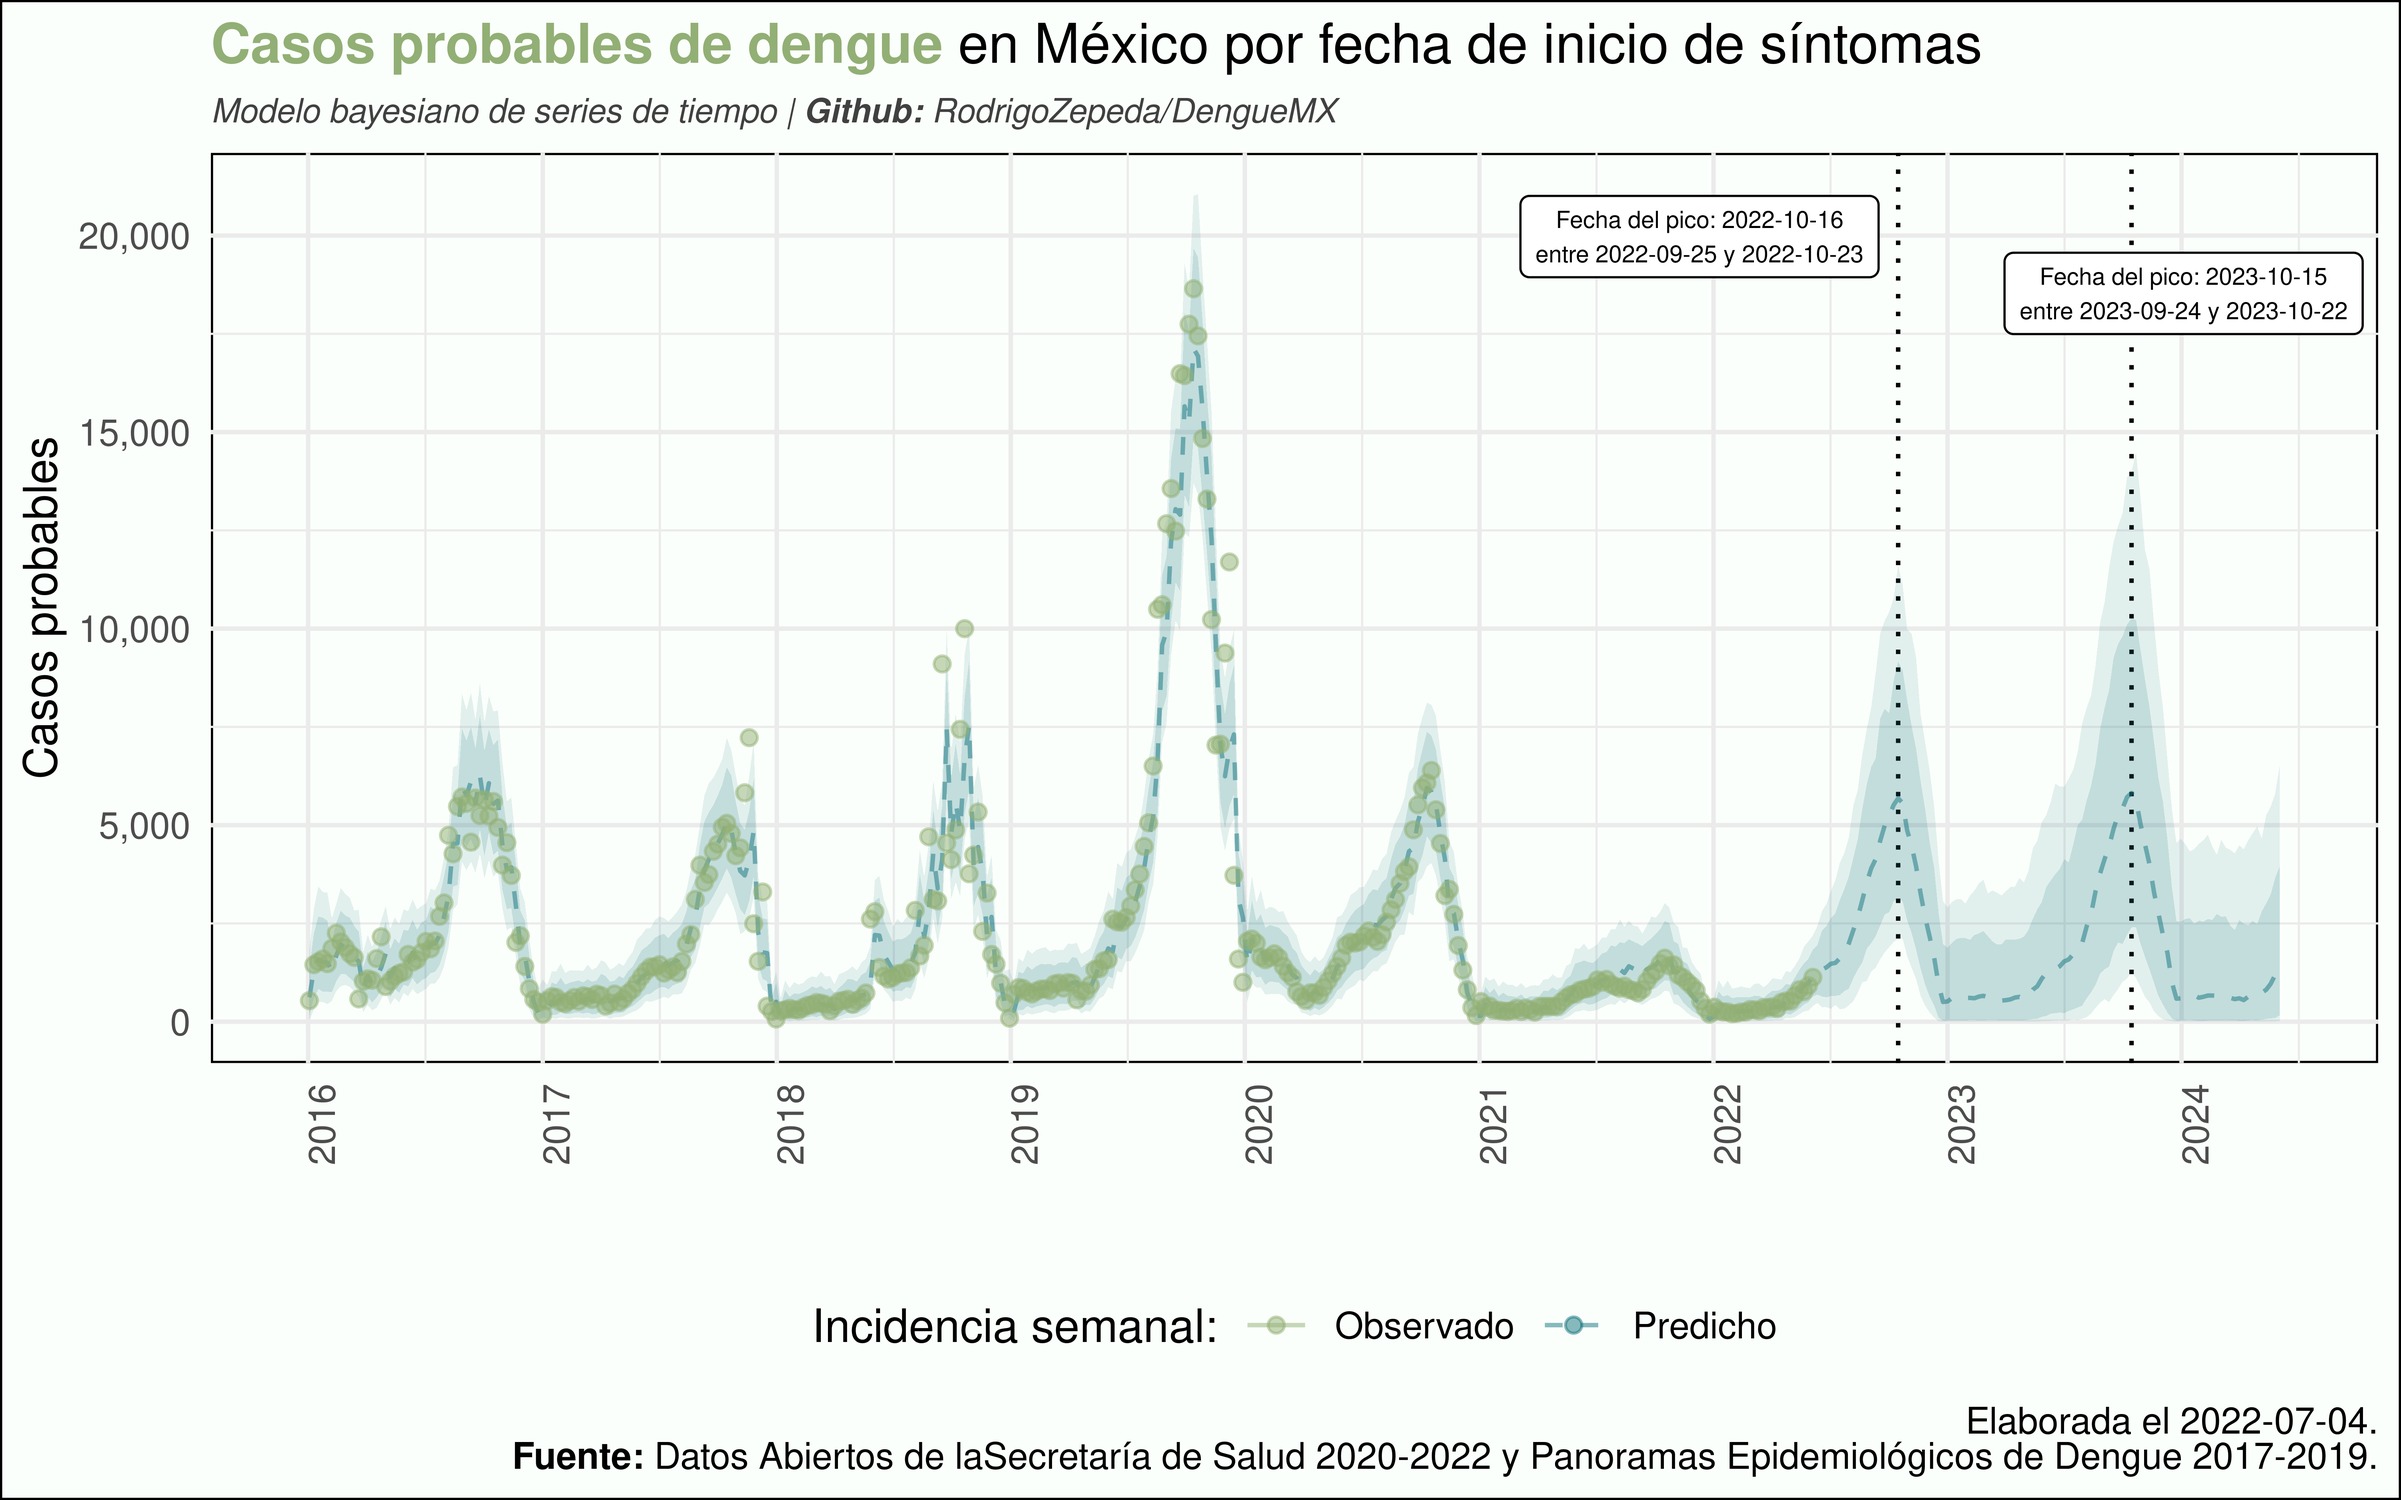
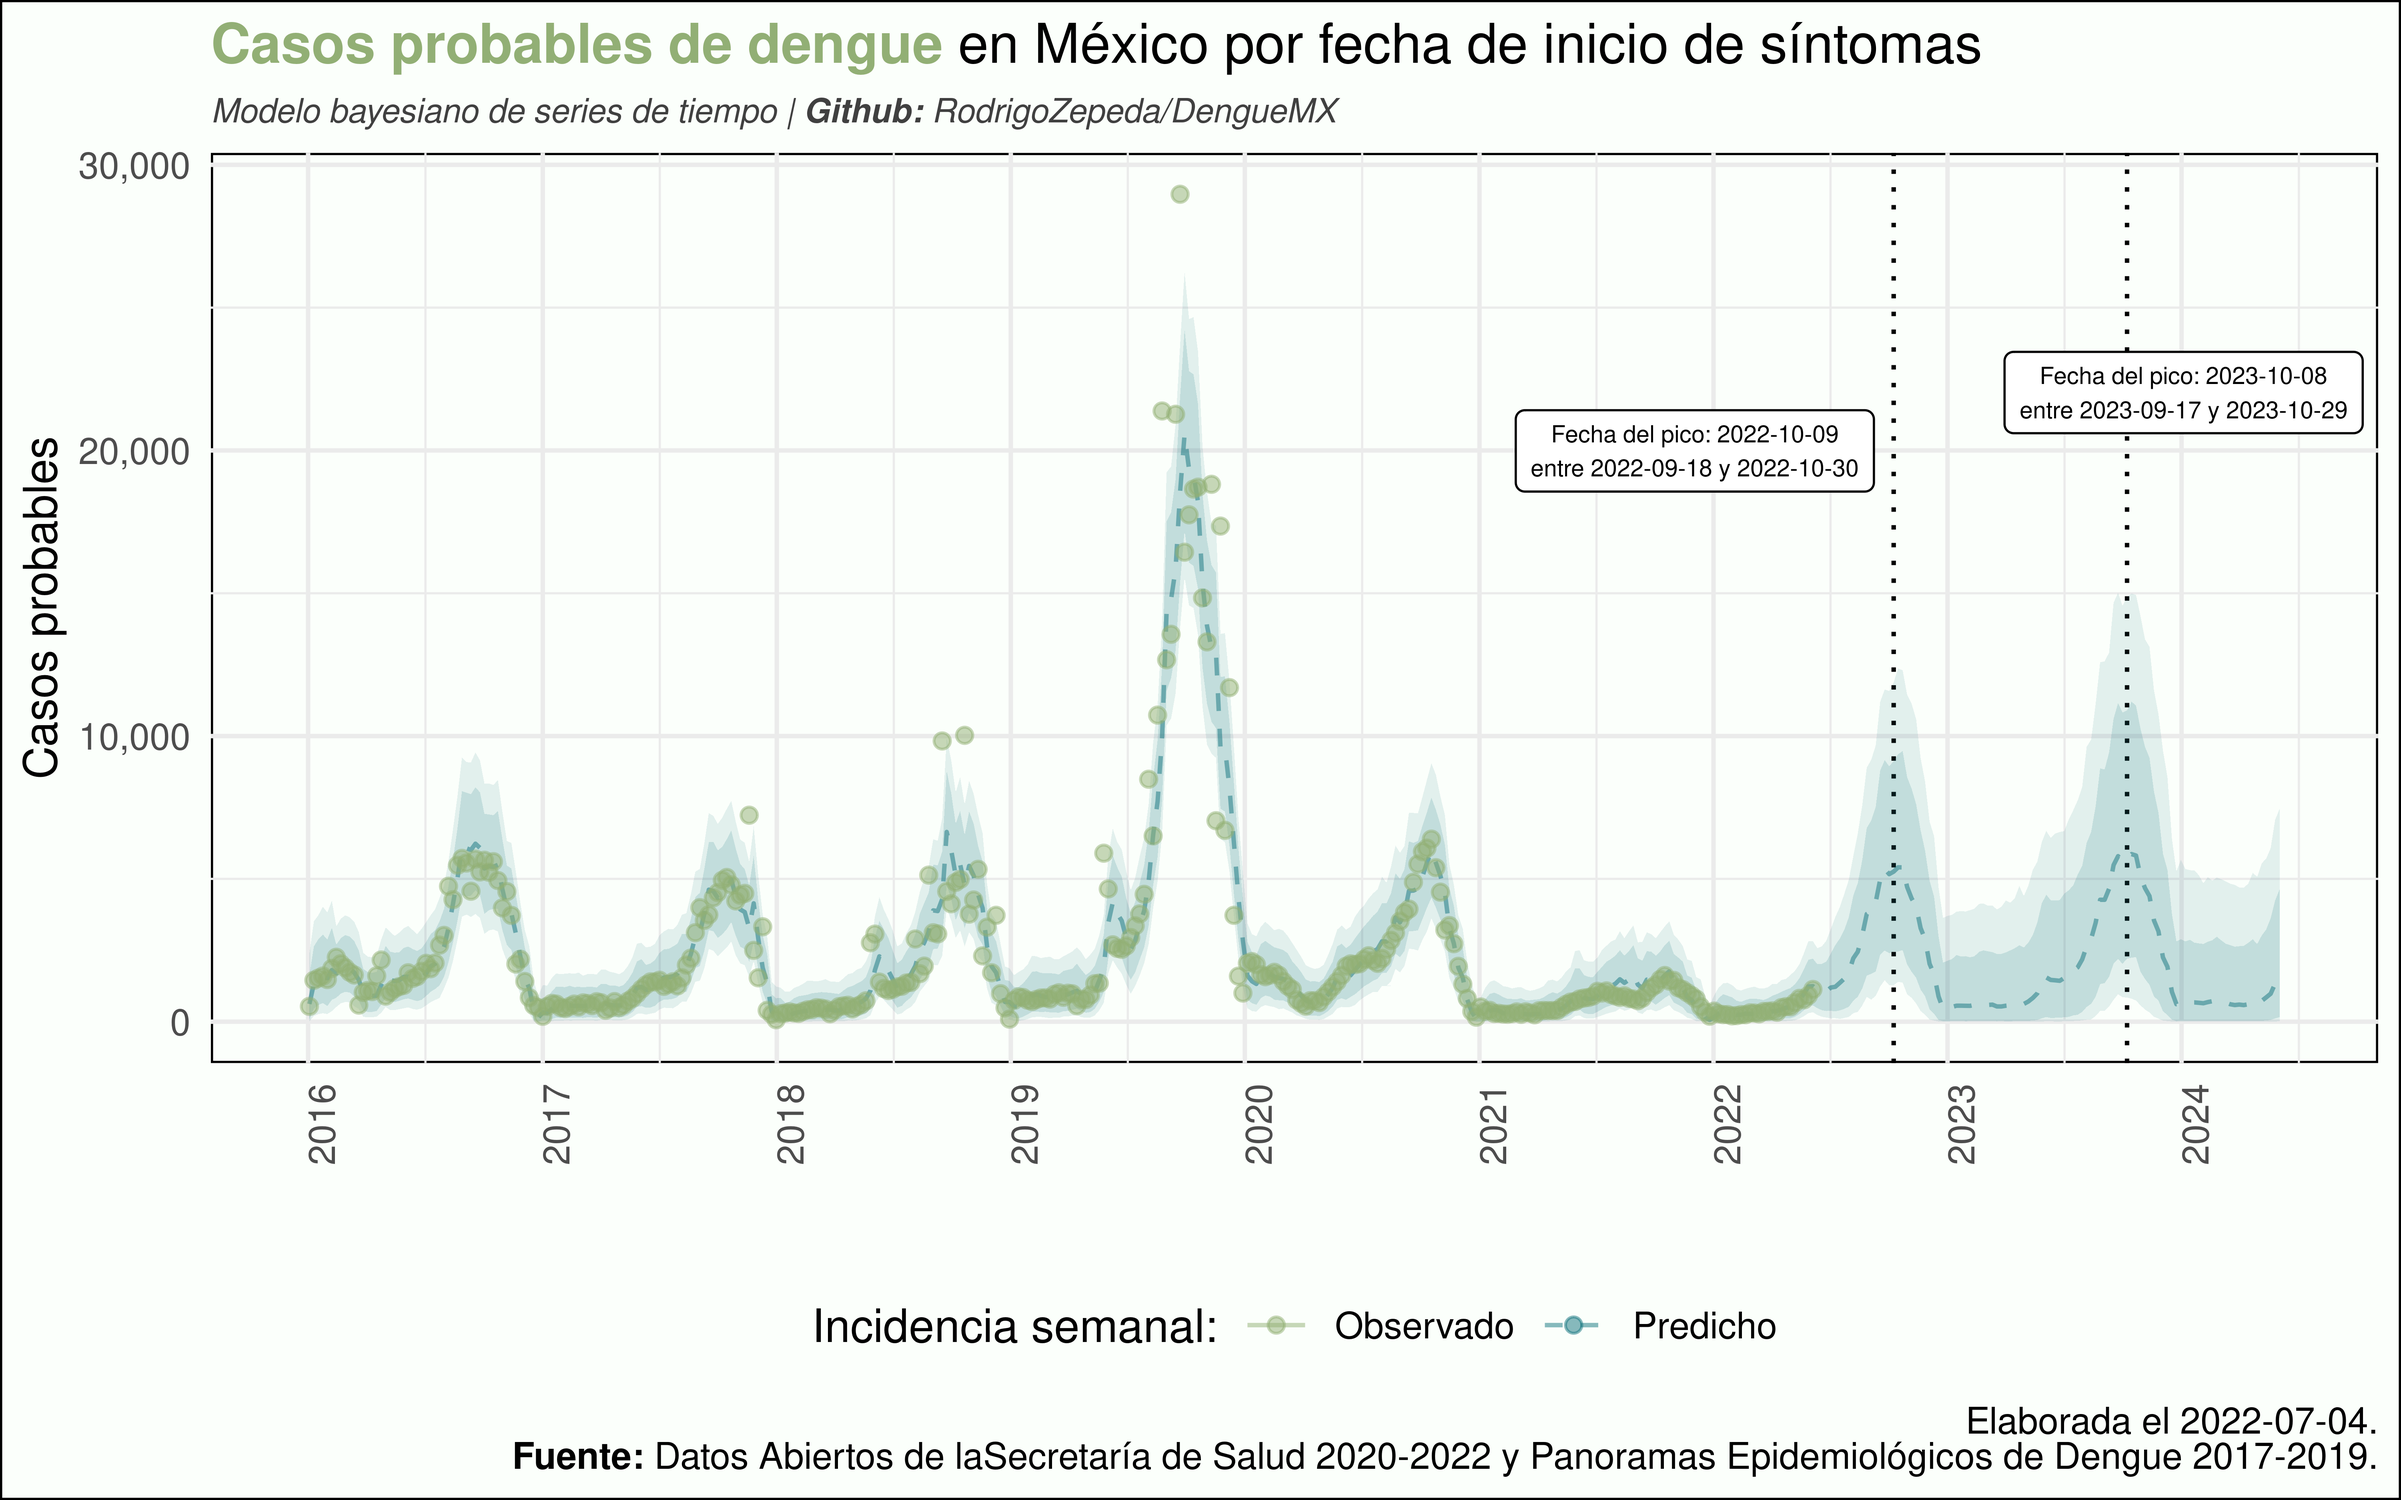
added semana 25

diff --git a/panoramas_epidemiologicos_previos/import/Import2022.py b/panoramas_epidemiologicos_previos/import/Import2022.py
@@ -1,0 +1,64 @@
+import tabula
+import pandas as pd
+import os
+from os import listdir
+import re
+from glob import glob
+
+# Directorio 2017
+dir_2022 = "panoramas_epidemiologicos_previos/2022"
+
+# Estados para verificar el sistema
+estados = {"CHIAPAS", "VERACRUZ", "NUEVO LEÓN", "GUERRERO", "MICHOACÁN", "TAMAULIPAS",
+           "JALISCO", "MORELOS", "PUEBLA", "NAYARIT", "TABASCO", "QUINTANA ROO", "SINALOA",
+           "YUCATÁN", "SONORA", "MÉXICO", "COLIMA", "SAN LUIS POTOSÍ", "OAXACA", "HIDALGO",
+           "COAHUILA", "CAMPECHE", "BAJA CALIFORNIA", "BAJA CALIFORNIA SUR", "CHIHUAHUA",
+           "DISTRITO FEDERAL", "DURANGO", "GUANAJUATO", "QUERÉTARO", "TLAXCALA", "ZACATECAS",
+           "CIUDAD DE MÉXICO", "AGUASCALIENTES","YUCATAN","MICHOACAN","SAN  LUIS POTOSI",
+           "NUEVO LEON","MEXICO","QUERETARO"}
+
+# Directorio de 2017
+fnames = [os.path.join(dir_2022, f) for f in listdir(dir_2022)]
+fnames = [name for name in fnames if name.find(".pdf") != -1]
+
+for name in fnames:
+
+    print("Leyendo " + name)
+
+    epiweek = re.sub(r'.*dengue_|_[0-9]+.pdf', '', name)
+    year = re.sub(r'.*dengue_[0-9]+_|.pdf', '', name)
+
+    table = tabula.read_pdf(name, pages=8, area=(100, 7.48, 600, 1000), pandas_options={'header': None},
+                                lattice = True)
+
+    #Pano_dengue_02_2020
+    df = table[0]
+    df = df[df[0].str.replace("\*| \*", "", regex=True).isin(estados)]
+
+    #Fix some copying errors
+    if df.columns.__len__() == 12.0:
+        df.iloc[:, 7].fillna(df.iloc[:, 8], inplace=True)
+        df = df.drop(df.columns[[8]], axis=1)  # df.columns is zero-based pd.Index
+
+    df.columns = ["Estado", "Probables (año pasado)", "Probables (año actual)",
+                  "Confirmados Dengue No Grave (año pasado)",
+                  "Confirmados Dengue No Grave (año actual)",
+                  "Dengue con Signos de Alarma y Dengue Grave (año pasado)",
+                  "Dengue con Signos de Alarma y Dengue Grave (año actual)",
+                  "Total Confirmados (año pasado)", "Total Confirmados (año actual)",
+                  "Defunciones (año pasado)", "Defunciones (año actual)"]
+
+    df = df.assign(Semana_Epidemiologica=epiweek)
+    df = df.assign(Anio=year)
+
+    if df.shape[0] != 32:
+        print("No sirvió " + name)
+
+    else:
+        if name != fnames[0]:
+            df_all = pd.concat([df_all.reset_index(drop=True), df], axis=0)
+        else:
+            df_all = df
+
+# Save as csv
+df_all.to_csv(os.path.join("panoramas_epidemiologicos_previos/processed", "2022.csv"), index=False)

diff --git a/README.md b/README.md
@@ -1,5 +1,7 @@
 # DengueMX
 
+> :warning: Al **4 de julio 2022* la Secretaría de Salud no ha actualizado la base de datos abiertos por lo que 2022 se obtiene de los panoramas epidemiológicos. Espero esta solución sea temporal.
+
 ![Casos de dengue en México](images/Dengue_predict.png)
 
 Repositorio de los datos abiertos y scrappeados de dengue en México junto con modelo de predicción de casos.
